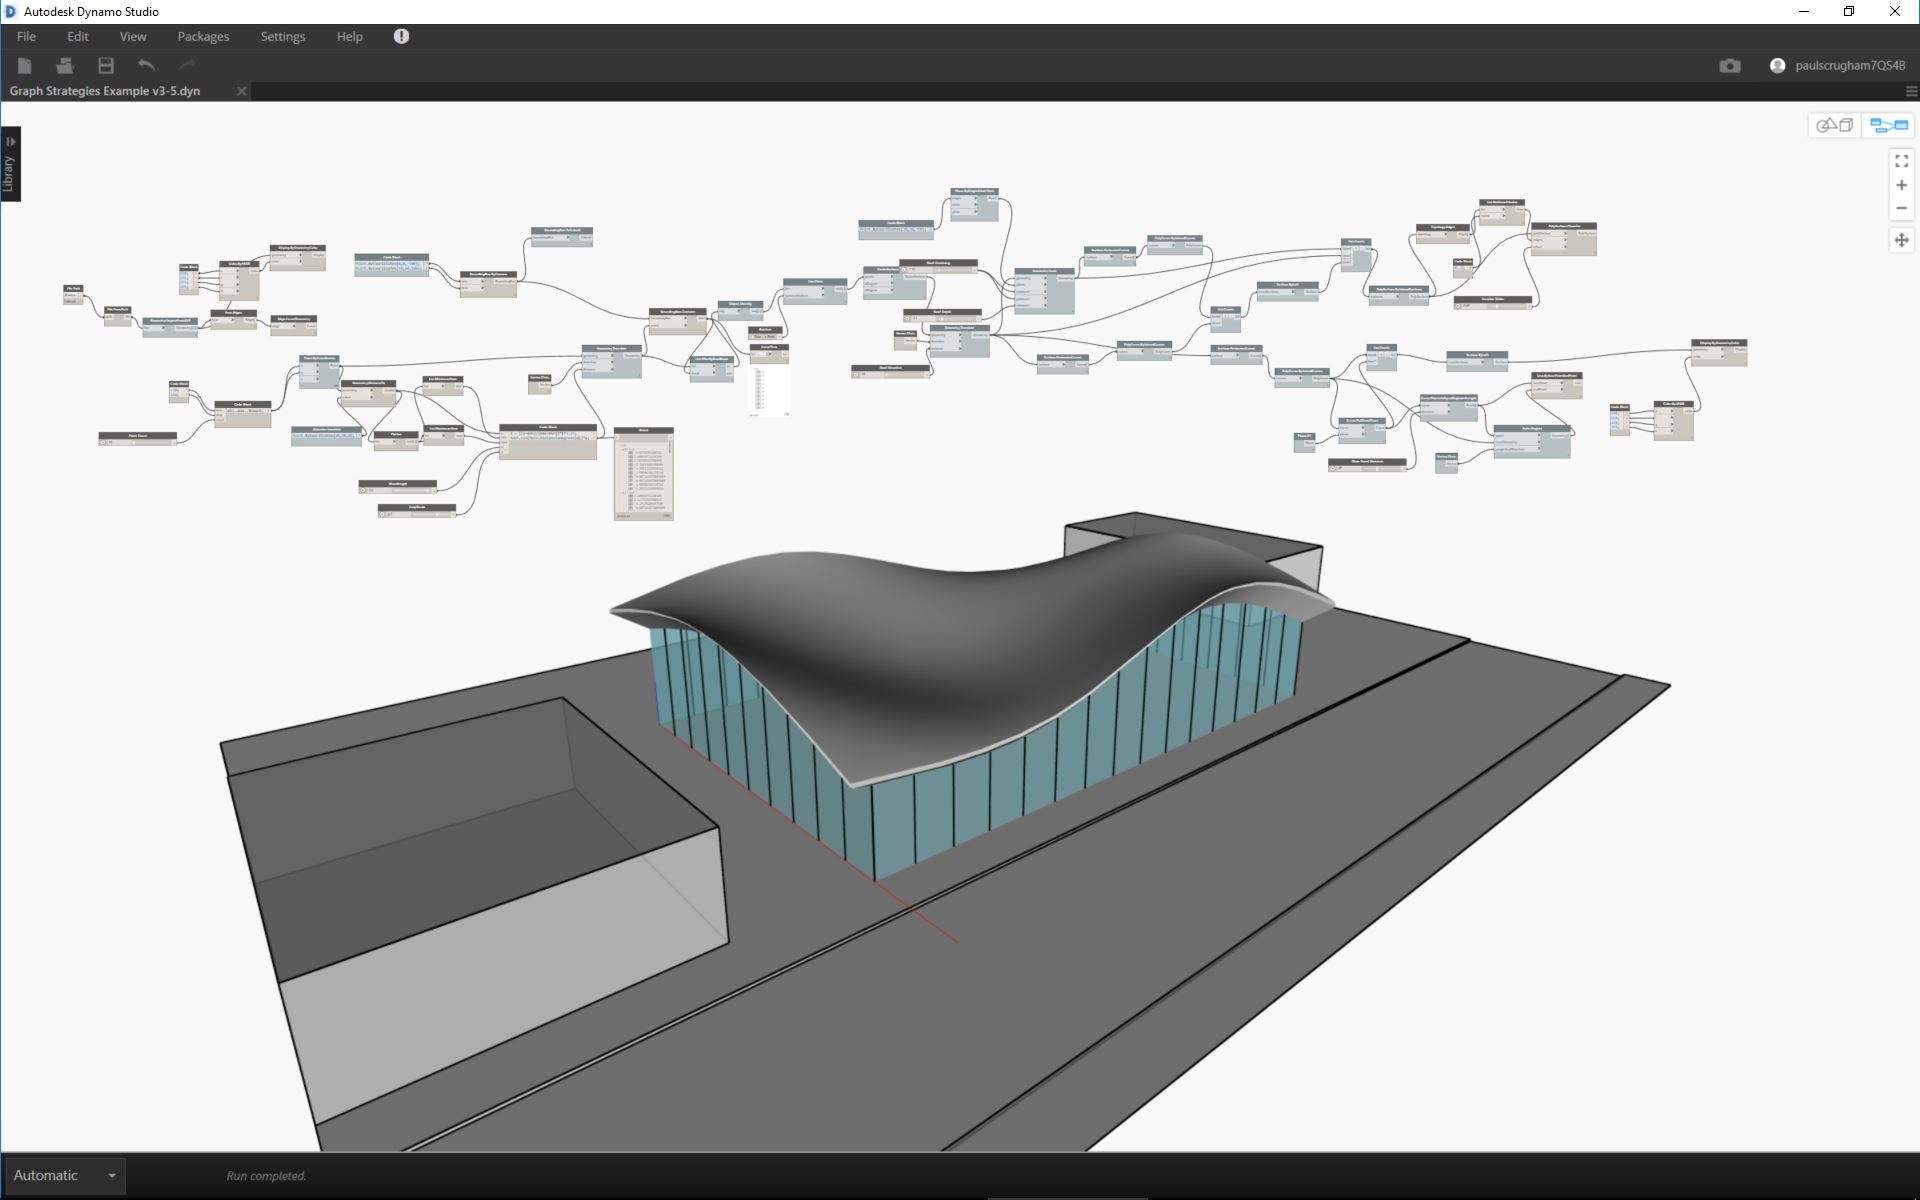
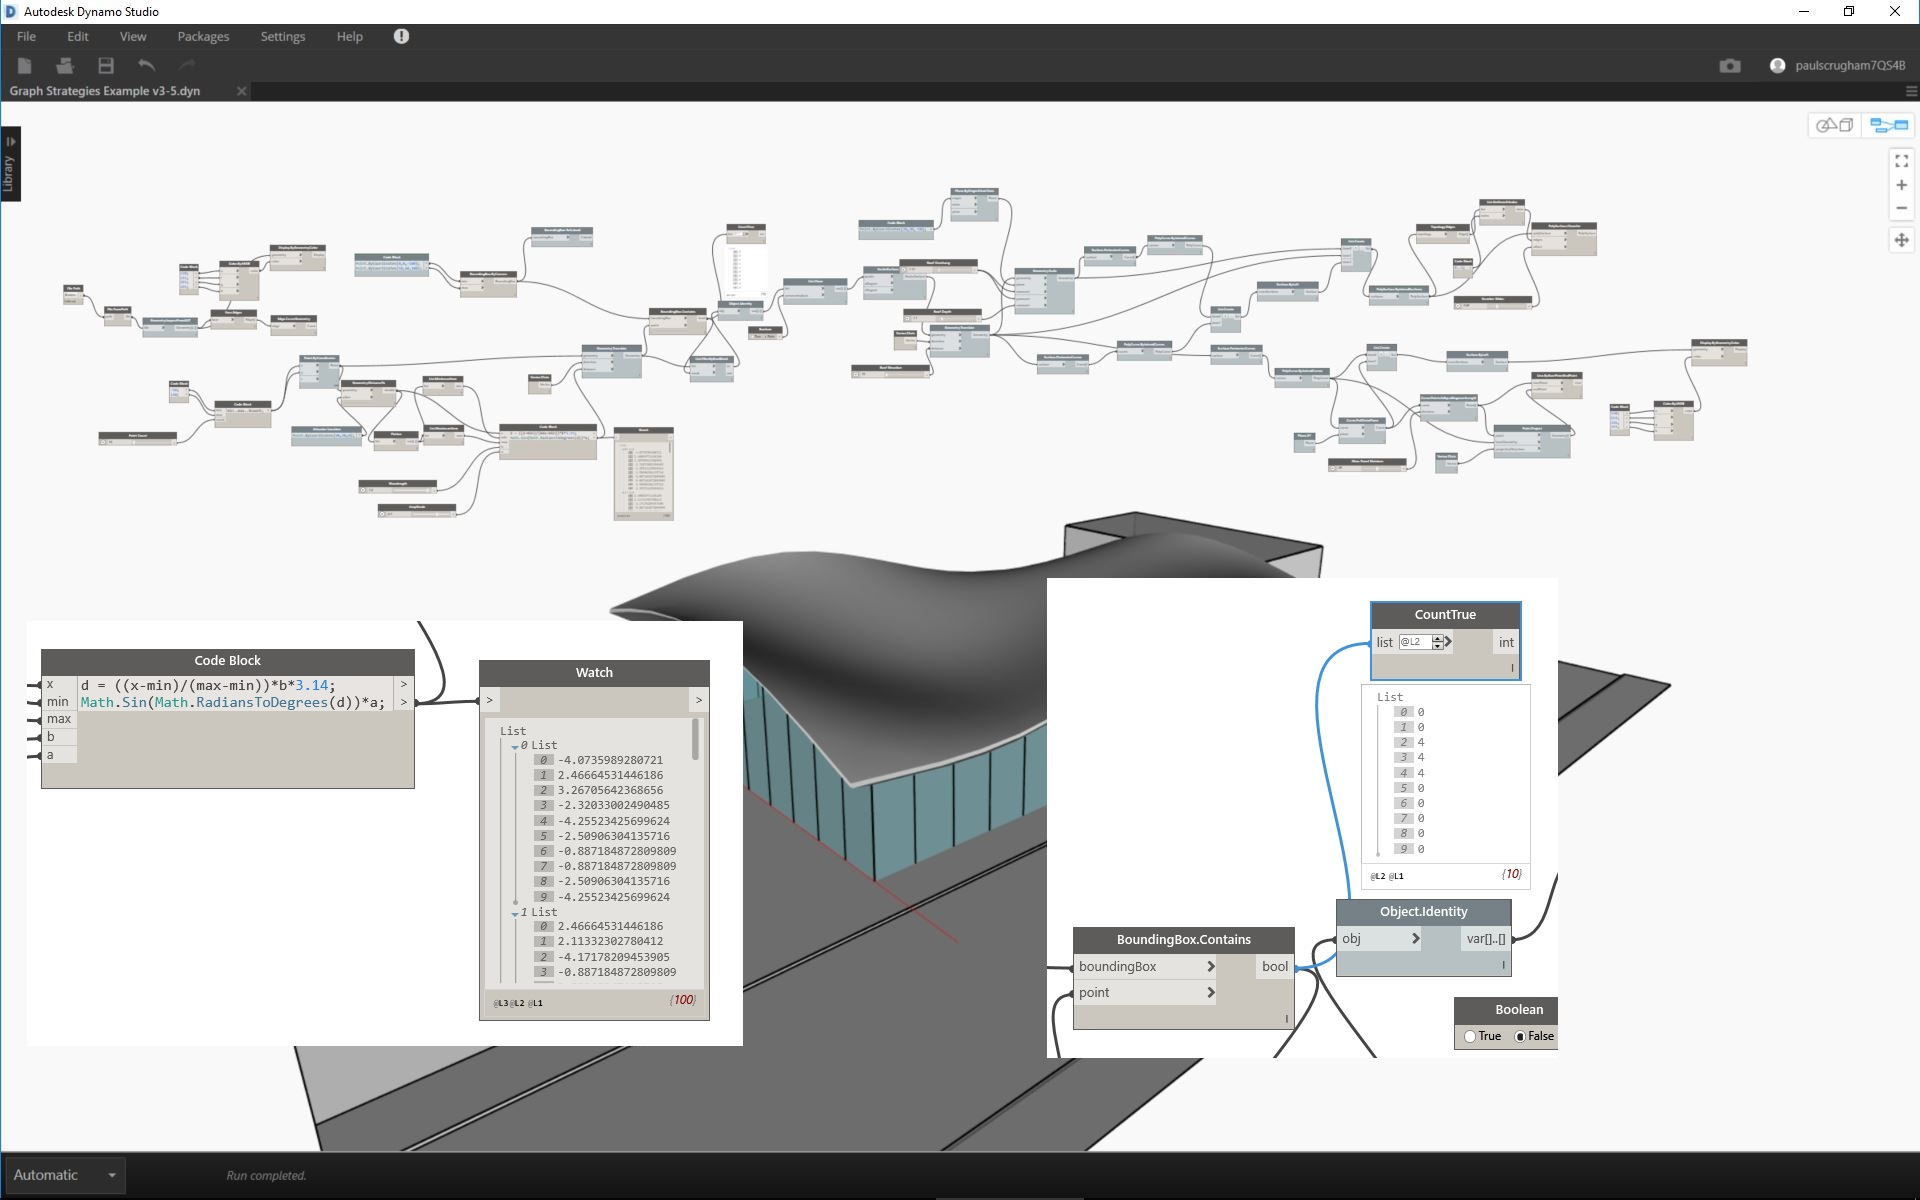
Updates 12_Best-Practice/images/12-2/1-1.JPG
Auto commit by GitBook Editor

diff --git a/12_Best-Practice/12-2_Graph-Strategies.md b/12_Best-Practice/12-2_Graph-Strategies.md
@@ -4,11 +4,11 @@ Now that we have our awesome drainage simulator, let's use the tool in our proje
 
 ### Reduce Complexity
 
-As you develop your Dynamo program and test ideas, it can quickly grow in size and complexity. While it is important that you create a functioning program, it is equally important to do it as efficiently as possible. Not only will your program run faster and more predictably, you along with other users will understand its logic later on.
+As you develop your Dynamo program and test ideas, it can quickly grow in size and complexity. While it is important that you create a functioning program, it is equally important to do it as simply as possible. Not only will your program run faster and more predictably, you along with other users will understand its logic later on.
 
 **Modularize with Groups:**
 
-* To create functionally distinct modules as you build a program
+* To create functionally distinct parts as you build a program
 * If you need to move large parts of the program around while maintaining modularity and alignment
 * Colors can be used to differentiate what groups are doing \(inputs vs functions\)
 * To streamline Custom Node creation
@@ -67,7 +67,7 @@ In addition to making your program as simple and efficient as possible, strive f
 * Often and while building your program
 * Prior to shipping the program to another user
 * Cleanup Node Layout will automatically align your graph, though less precisely than doing it yourself
-* Implies logical grouping
+* Implies a flow
 
 ![alignment](images/12-2/alignment.png)
 
@@ -95,7 +95,7 @@ In addition to making your program as simple and efficient as possible, strive f
 
 **Monitor data with Watch:**
 
-* As you build the program to verify that a module of functionality is returning what you expected
+* As you build the program to verify that key outputs are returning what you expected
 
 ![watch](images/12-2/watch.png)
 
@@ -105,7 +105,7 @@ In addition to making your program as simple and efficient as possible, strive f
 
 ### Ensure Reusability
 
-It is highly likely that someone else will be opening your program at some point, even if you are working independently. They should be able to quickly understand what the program needs and produces from its inputs and outputs. This is especially important when developing a Custom Node to be shared with the Dynamo community and used in someone else’s program. These practices lead to robust programs and nodes that are reusable at a later time.
+It is highly likely that someone else will be opening your program at some point, even if you are working independently. They should be able to quickly understand what the program needs and produces from its inputs and outputs. This is especially important when developing a Custom Node to be shared with the Dynamo community and used in someone else’s program. These practices lead to robust, reusable programs and nodes.
 
 **Manage the I/O:**
 
@@ -113,7 +113,7 @@ It is highly likely that someone else will be opening your program at some point
 * Determine which inputs and outputs will go into scripts
 * Keep inputs generic
 
-**Embed input values with Presets:**
+**Use Presets to embed input values:**
 
 * If there are particular forms or conditions that you want embedded in the file
 * To avoid adjusting the sliders in a program with long run times
@@ -128,7 +128,7 @@ It is highly likely that someone else will be opening your program at some point
 
 ![customnode](images/12-2/customnode.png)
 
-> Condensing the point translation program into a Custom Node makes a robust, unique program portable and far easier to understand. Well named input ports will help other users understand how to use the node.
+> Condensing the point translation program into a Custom Node makes a robust, unique program portable and far easier to understand. Well named input ports will help other users understand how to use the node. Remember to add descriptions and required data types for each input.
 
 > For how to use Custom Nodes, refer to [Custom Node Introduction](http://dynamoprimer.com/en/09_Custom-Nodes/9-1_Introduction.html).
 
@@ -162,14 +162,14 @@ Now that we have established several best practices, let’s apply them to a pro
 
 Let's start by determining the data and geometry returned by the program.
 
-![data](images/12-2/1-1.jpg)
+![data](images/12-2/1-1.JPG)
 
-> Understanding when major changes to the data occur is crucial to establishing logical divisions, or modularity.
+> Understanding when major changes to the data occur is crucial to establishing logical divisions, or modularity. Try inspecting the rest of the program with Watch nodes to see if you can determine groups before moving on to the next step.
 
-> 1. List@Level
-> 2. Watch
+> 1. This Code Block with a math equation looks like a crucial piece of the program. A Watch node displays that it is returning lists of translation distances.
+> 2. The purpose of this area isn't readily obvious. The arrangement of True values at list level L2 from BoundingBox.Contains and the presence of List.FilterByBoolMask suggests we are sampling a portion of the point grid.
 
-Now that we understand the elemental parts of the program, let's put them in Groups.
+Once we understand the elemental parts of the program, let's put them in Groups.
 
 ![groups](images/12-2/1-2.jpg)
 
@@ -185,7 +185,7 @@ With Groups established, align the nodes to create visual continuity across the 
 
 ![alignment](images/12-2/2.jpg)
 
-> Visual continuity allows the user to see implicit relationships between nodes.
+> Visual continuity helps the user to see the program flow and implicit relationships between nodes.
 
 Make the program more accessible by adding another layer of graphic improvements. Add notes to describe how specific areas of the program works, give inputs custom names, and assign colors to different types of groups. 
 
@@ -225,7 +225,7 @@ As a final step, create presets for exemplary roof forms.
 > 1. Preset 1
 > 2. Preset 2
 
-**Our Program:**
+Our program with views of several presets.
 
 ![ourprogram](images/12-2/3-3.jpg)
 
